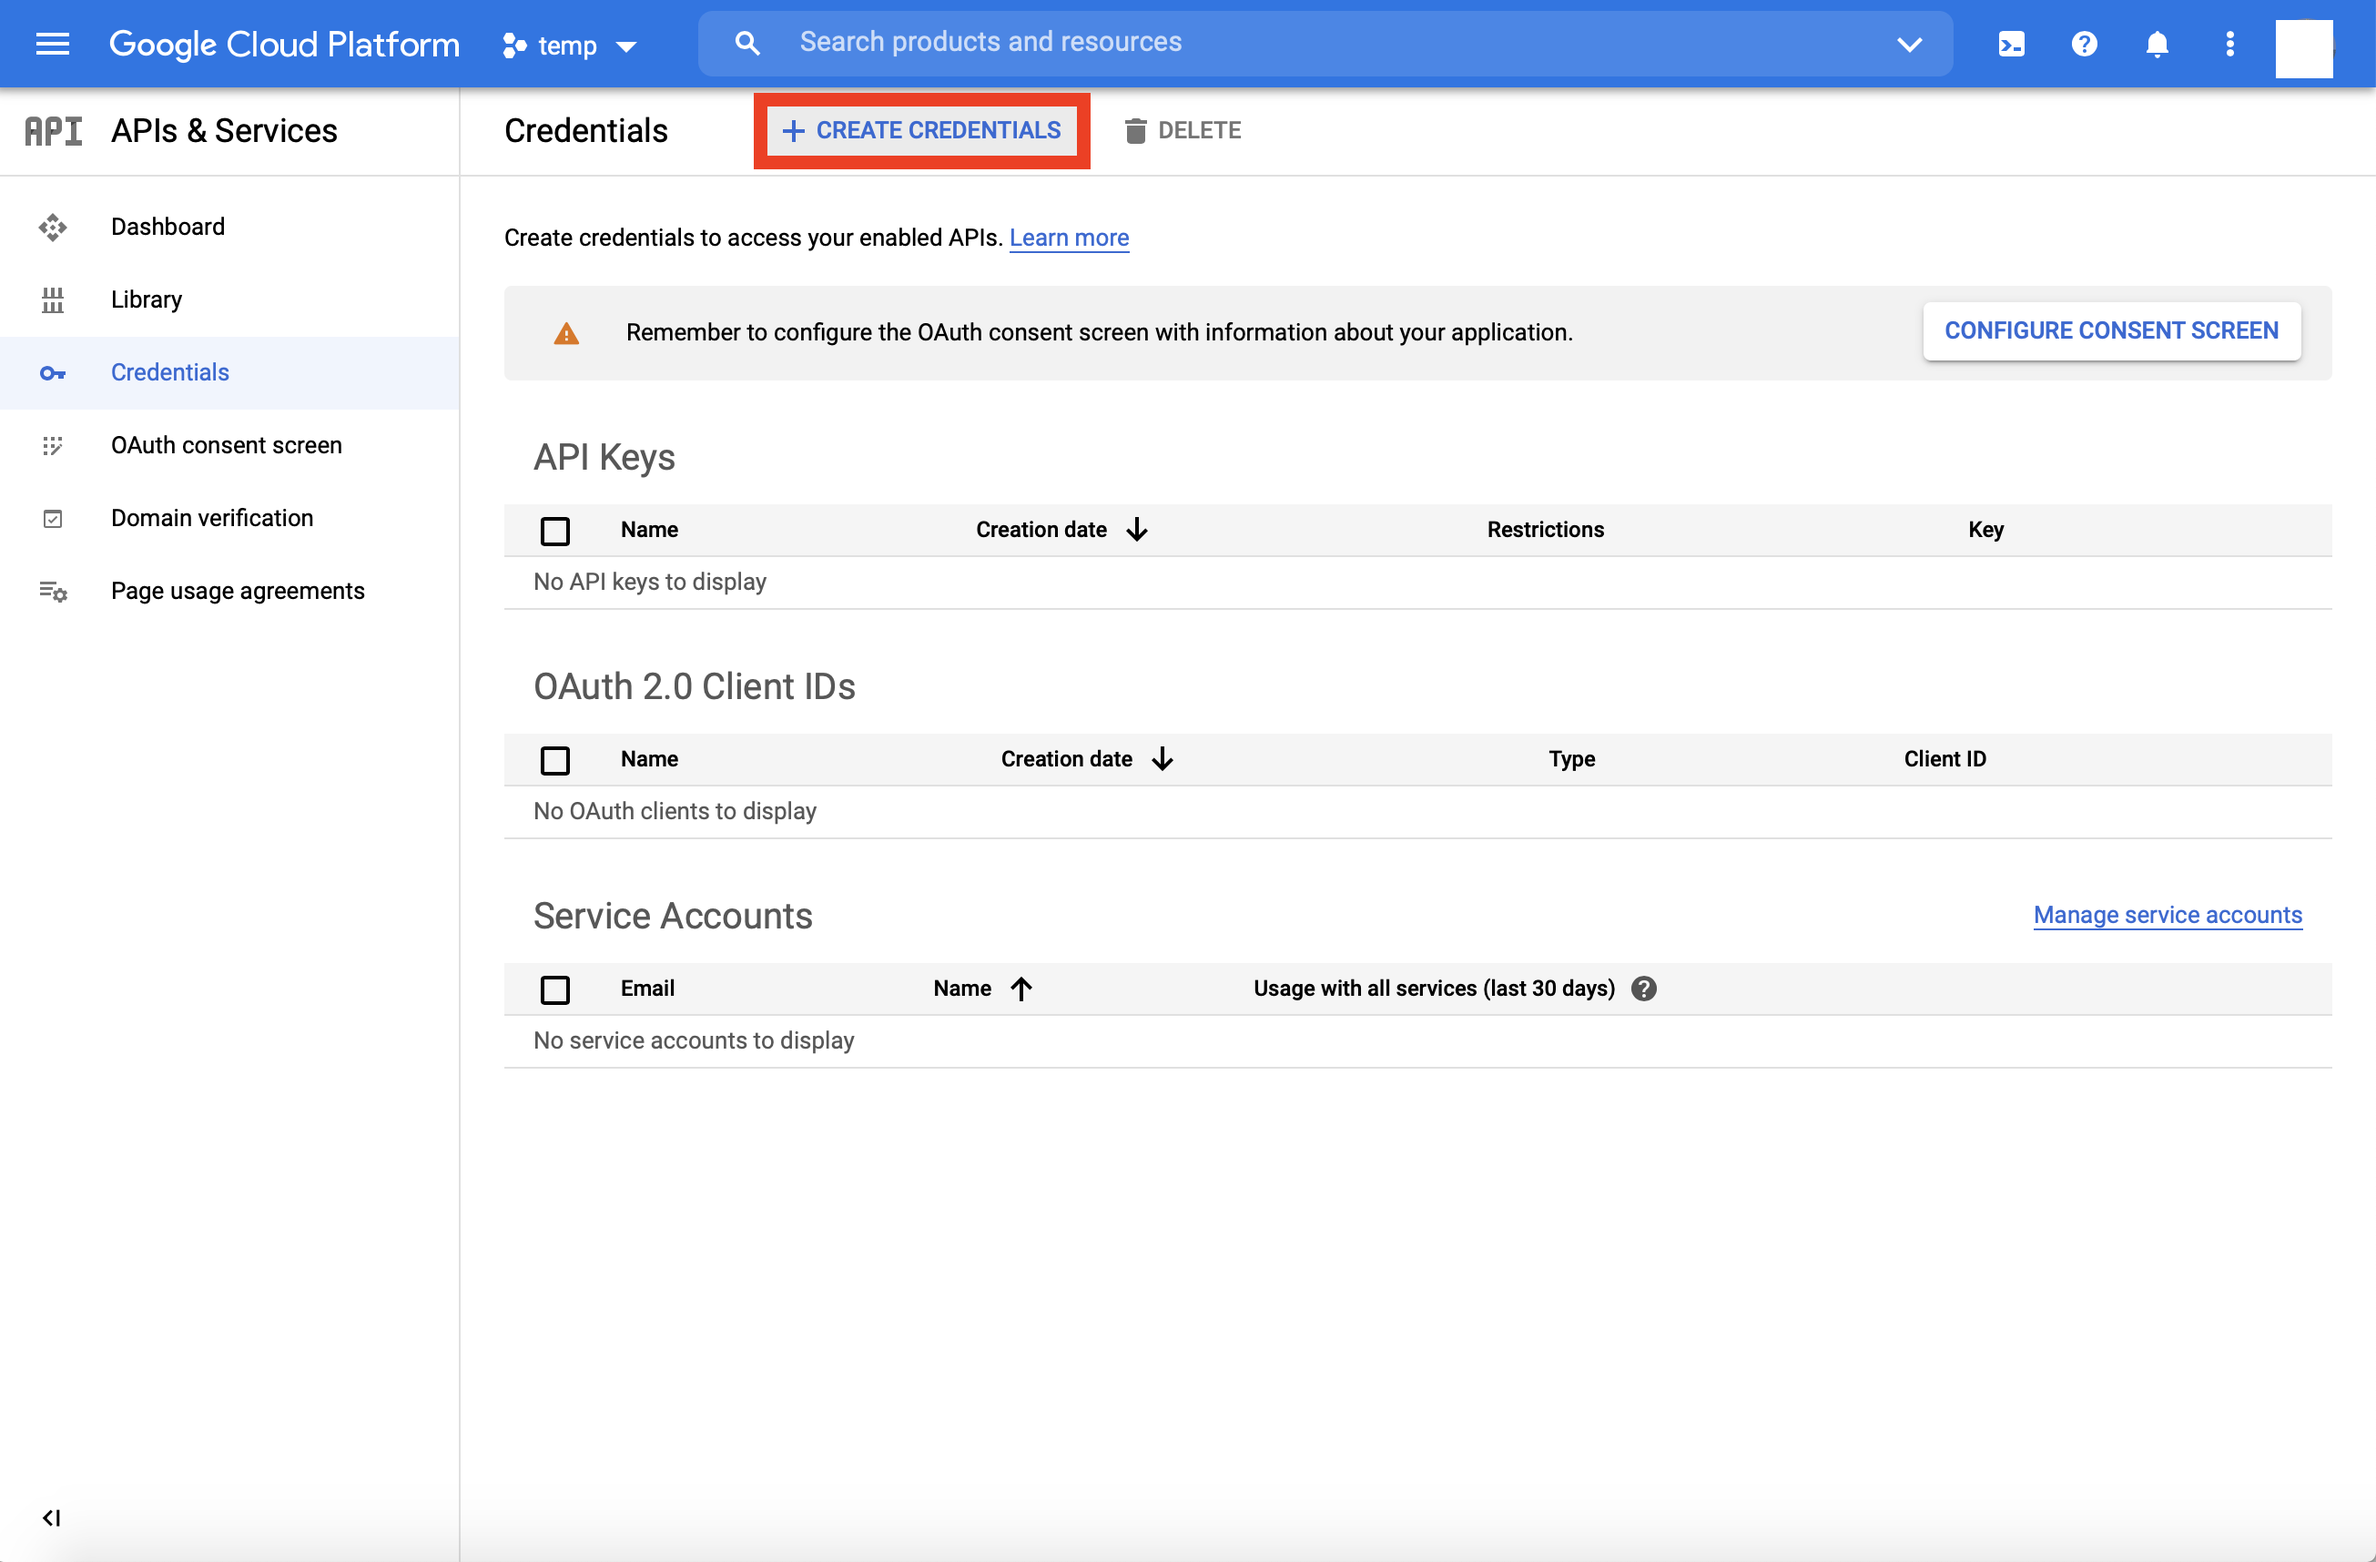
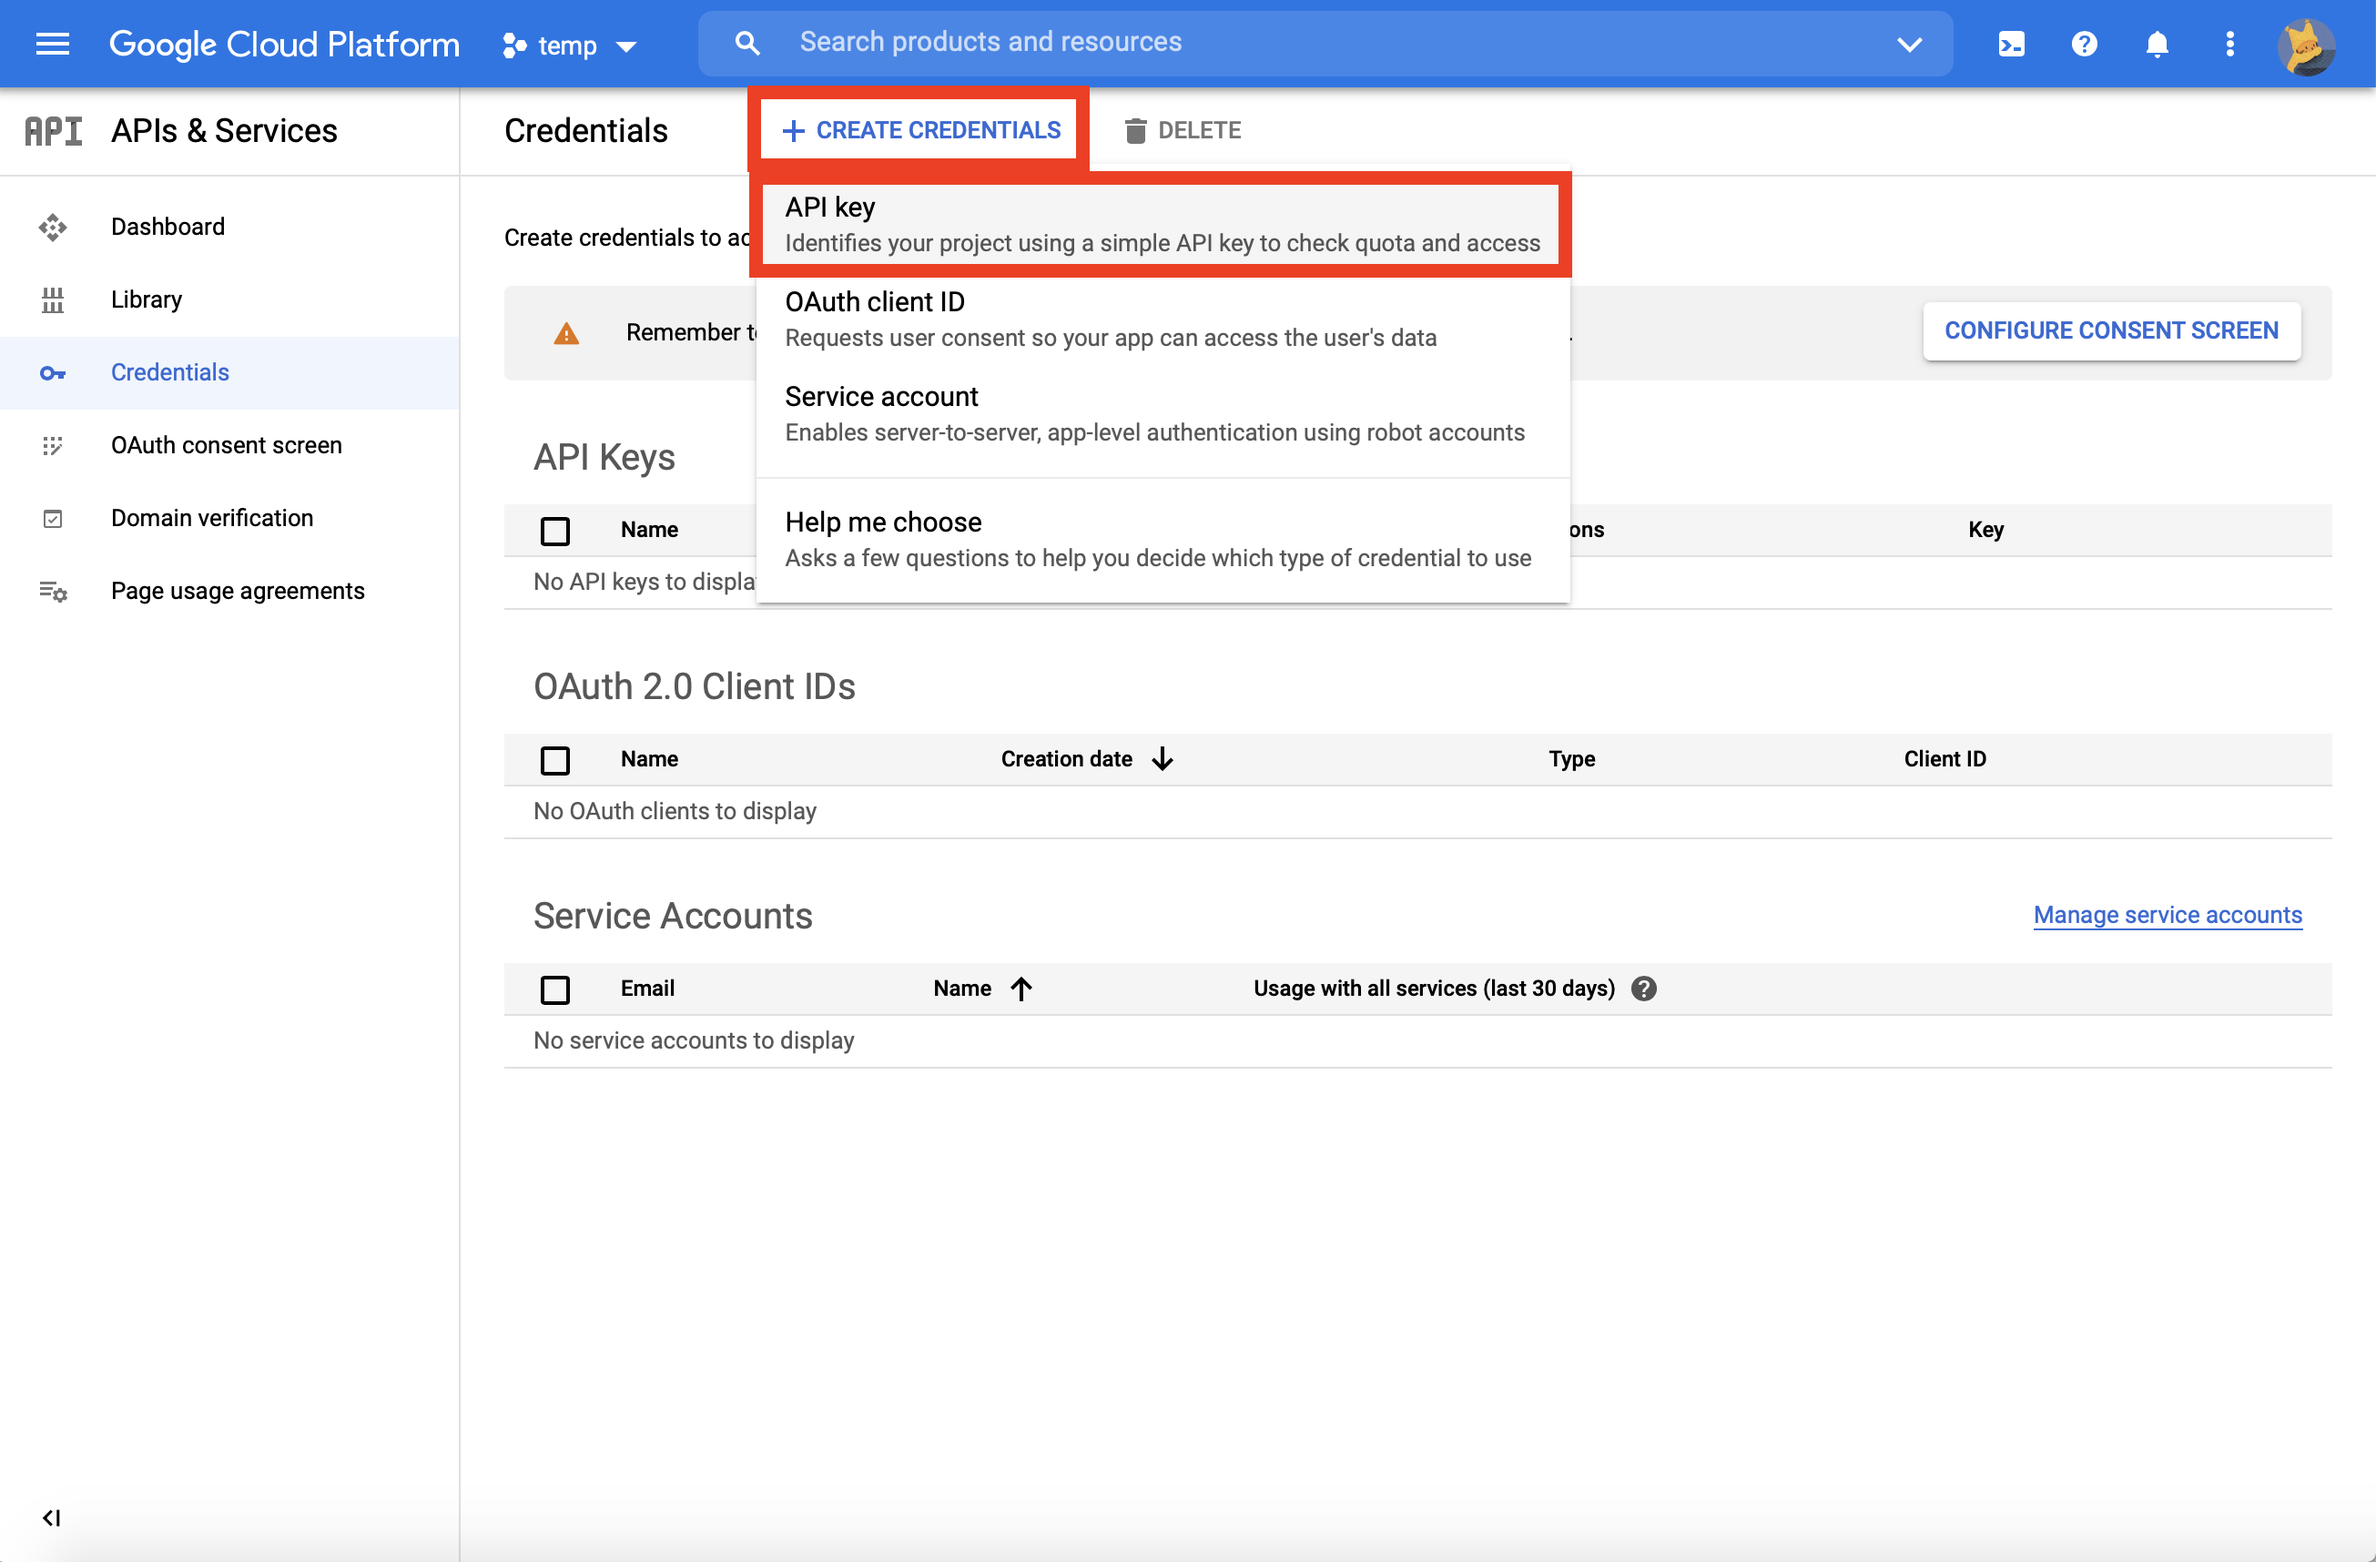
insert figures in user documentation

Changed region(s): [[0.3103, 0.0309, 0.6828, 0.278], [0.3414, 0.3089, 0.6517, 0.3706], [0.9621, 0.0, 0.9931, 0.0618]]

diff --git a/configuration/documentation.md b/configuration/documentation.md
@@ -82,25 +82,25 @@ This program will take your gpx file and give you a table with turn by turn dire
     <img width="652.5" height="454" src="https://github.com/missystem/422gpx/blob/main/userImage/5.png"> <br />
 
 * **Google:**
-    * Sign up a Google account or log in if you already have one.       
+    * Sign up a Google account or log in if you already have one.
     * Go to [Google developer page](https://developers.google.com/maps/documentation/geocoding/get-api-key)
     * Click on **project selector page**       
-    
-    * In this page, go to **create project**       
-    
-    * Once you finished creating project, you will see **APIs & Services > Credentials page**, click on that       
-    
-    * On the Credentials page, click Create credentials -> API key.        
-    
-    * The API key will show on your screen, copy it.      
-
-
     <img width="651" height="454.5" src="https://github.com/missystem/422gpx/blob/main/userImage/11.png"> <br />
+    * In this page, click on **create project** to create a Google Cloud project     
     <img width="652.5" height="429.5" src="https://github.com/missystem/422gpx/blob/main/userImage/12.png"> <br />
+    * Once you finished creating project, you will see **APIs & Services > Credentials page**, click on that       
     <img width="652.5" height="429" src="https://github.com/missystem/422gpx/blob/main/userImage/13.png"> <br />
+    * On the Credentials page, click Create credentials -> API key.      
     <img width="652.5" height="429" src="https://github.com/missystem/422gpx/blob/main/userImage/14.png"> <br />
-    <img width="652.5" height="429" src="https://github.com/missystem/422gpx/blob/main/userImage/15.png"> <br />
-    <img width="555" height="346" src="https://github.com/missystem/422gpx/blob/main/userImage/16.png"> <br />
+    * The API key will show on your screen, copy it.      
+    <img width="555" height="346" src="https://github.com/missystem/422gpx/blob/main/userImage/15.png"> <br />
+
+    
+    
+    
+    
+    
+    
                 
 3. Once you copied your API key, back to our web page. 
 4. ...
